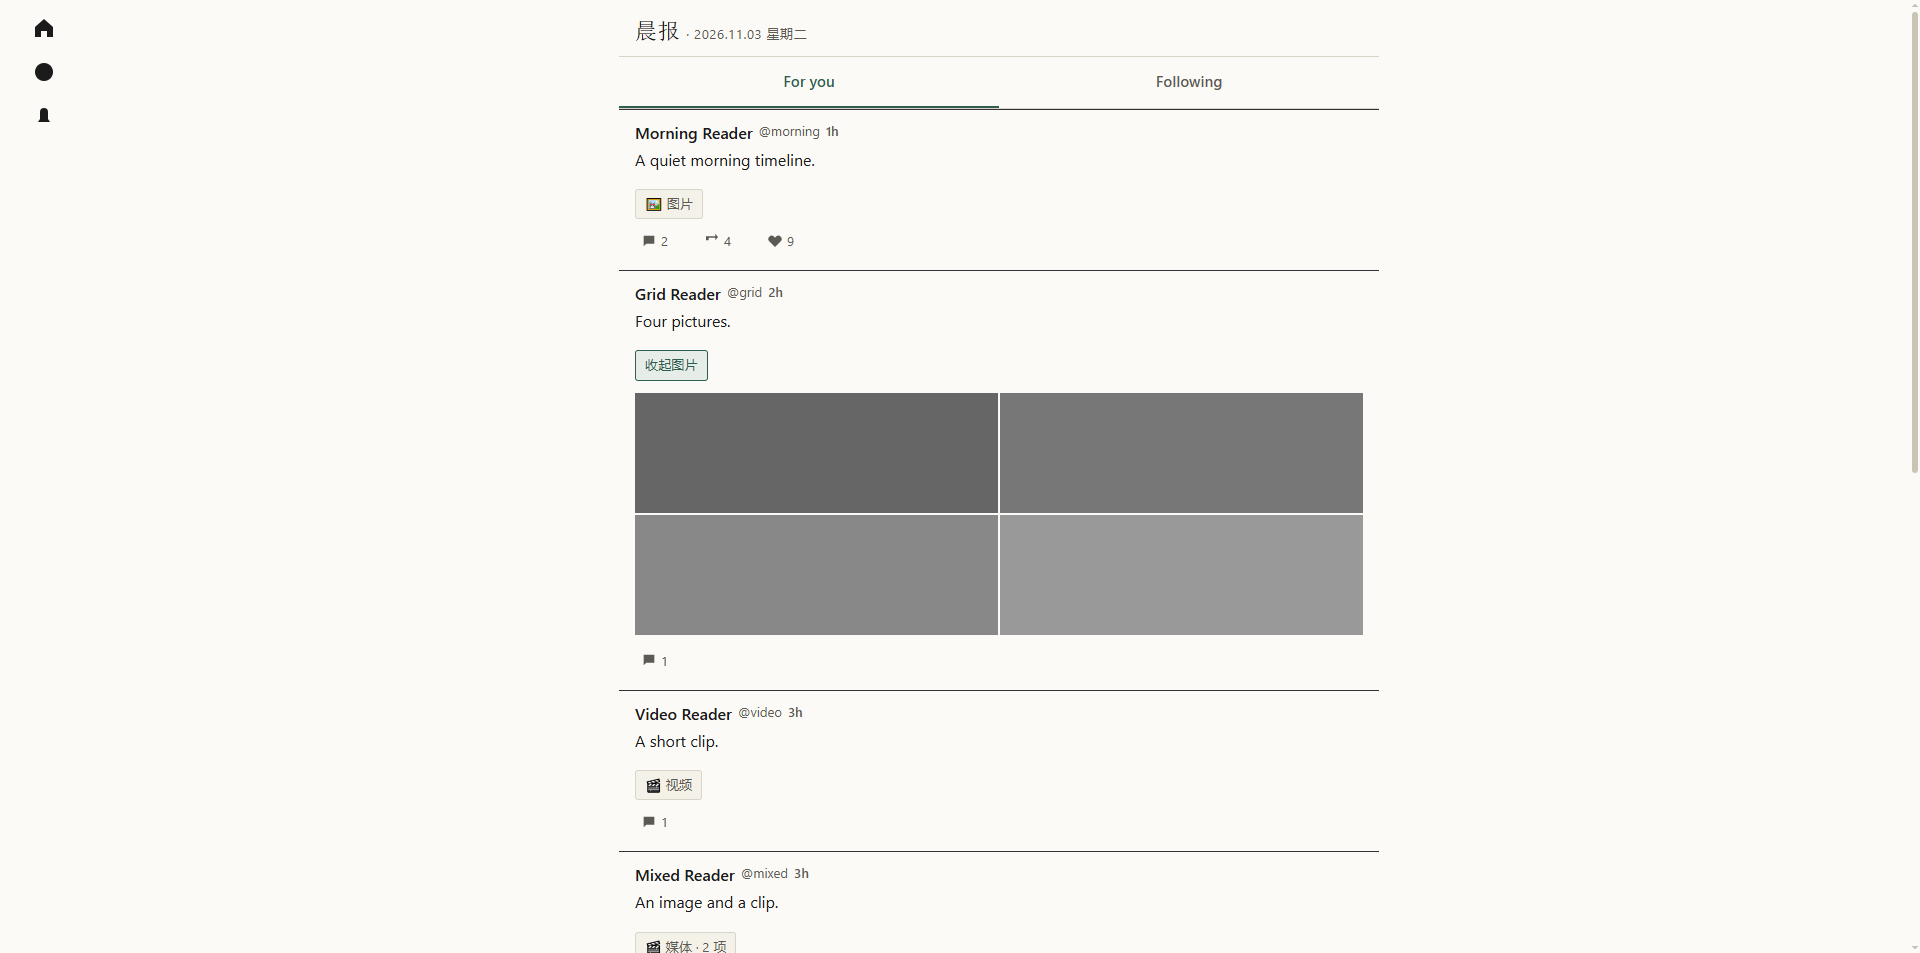
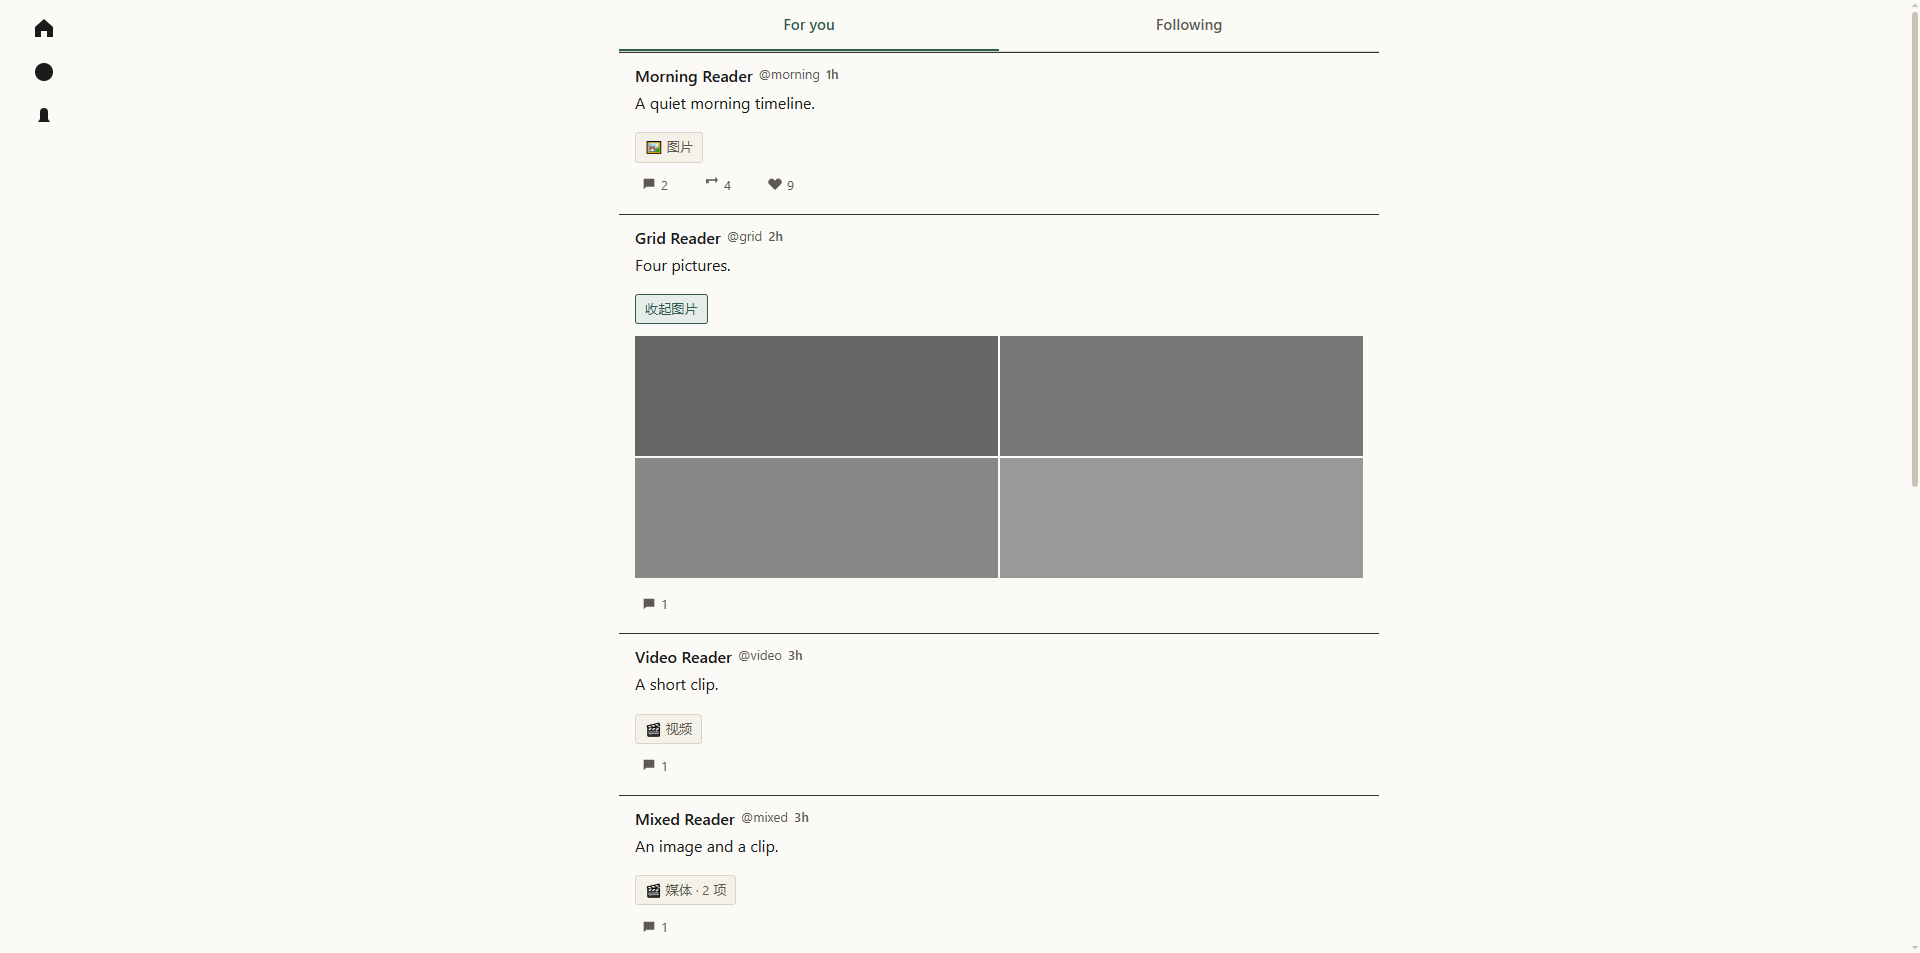
feat: rename to x-paper, format post times and refine notifications
- remove the date masthead and every 晨报 reference from the userscript and user docs
- rename the userscript, namespace, menu and console prefix to x-paper
- render post timestamps as HH:mm, 昨天·HH:mm or M月D日·HH:mm and sync aria-labels
- turn the new-posts pill and toast into compact paper surfaces

Changed region(s): [[0.3125, 0.0, 0.7188, 0.426], [0.3125, 0.6086, 0.7188, 1.0], [0.3125, 0.4565, 0.7188, 0.5477]]

diff --git a/x-morning-paper.user.js b/x-morning-paper.user.js
@@ -1,8 +1,8 @@
 // ==UserScript==
-// @name         X 晨报
-// @namespace    x-morning-paper
-// @version      0.2.0
-// @description  把 X 首页改成清爽晨报版面：图标轨、宽正文、日期刊头、媒体 emoji 入口
+// @name         x-paper
+// @namespace    x-paper
+// @version      0.3.0
+// @description  A quiet paper layout for X: icon rail, wide reading column, emoji media controls
 // @match        https://x.com/*
 // @run-at       document-start
 // @grant        GM_getValue
@@ -43,7 +43,6 @@
       --xmp-pine-soft: #E6ECE7;
       --xmp-like: #A8442E;
       --xmp-ui-font: -apple-system, BlinkMacSystemFont, "Segoe UI", "Microsoft YaHei", sans-serif;
-      --xmp-display-font: Georgia, "Times New Roman", "Songti SC", "SimSun", serif;
       background-color: var(--xmp-paper) !important;
       color-scheme: light !important;
       color: var(--xmp-ink) !important;
@@ -233,16 +232,18 @@
     }
 
     html[data-xmp-enabled="1"] [role="status"][data-keep-composer-open] button {
-      background-color: var(--xmp-pine) !important;
-      color: var(--xmp-paper) !important;
+      background-color: var(--xmp-paper-raised) !important;
+      color: var(--xmp-ink) !important;
+      border: 1px solid var(--xmp-hairline) !important;
+      box-shadow: 0 2px 8px rgba(27, 27, 27, 0.08);
       width: auto !important;
       min-width: 0 !important;
       justify-content: center !important;
     }
 
     html[data-xmp-enabled="1"] [role="status"][data-keep-composer-open] button * {
-      color: var(--xmp-paper) !important;
-      fill: var(--xmp-paper) !important;
+      color: var(--xmp-ink) !important;
+      fill: var(--xmp-ink) !important;
     }
 
     html[data-xmp-enabled="1"] [role="status"][data-keep-composer-open] button > div {
@@ -420,44 +421,18 @@
     }
 
     html[data-xmp-enabled="1"] [role="status"][data-keep-composer-open] button:hover {
-      background-color: var(--xmp-pine-deep) !important;
+      background-color: var(--xmp-pine-soft) !important;
+      border-color: var(--xmp-pine) !important;
+    }
+
+    html[data-xmp-enabled="1"] [role="status"][data-keep-composer-open] button:hover * {
+      color: var(--xmp-pine) !important;
+      fill: var(--xmp-pine) !important;
     }
 
     html[data-xmp-enabled="1"] :is(main, header[role="banner"]) :is(a, button, [role="button"], [role="tab"], [role="link"]):focus-visible {
       outline: 2px solid var(--xmp-pine) !important;
       outline-offset: 2px;
-    }
-
-    #xmp-date-masthead {
-      position: static !important;
-      display: flex !important;
-      align-items: baseline !important;
-      justify-content: flex-start !important;
-      gap: 6px !important;
-      width: 100% !important;
-      box-sizing: border-box !important;
-      padding: 18px 16px 10px !important;
-      border-bottom: 1px solid var(--xmp-hairline) !important;
-      background: var(--xmp-paper) !important;
-      color: var(--xmp-ink) !important;
-      font-family: var(--xmp-display-font) !important;
-      font-weight: 400 !important;
-      line-height: 1.25 !important;
-    }
-
-    #xmp-date-masthead .xmp-masthead-name {
-      font-family: var(--xmp-display-font) !important;
-      font-size: 22px !important;
-      letter-spacing: 0.03em;
-    }
-
-    #xmp-date-masthead .xmp-masthead-date {
-      font-family: var(--xmp-ui-font) !important;
-      font-size: 13px !important;
-      line-height: 1.4 !important;
-      letter-spacing: 0.05em;
-      color: var(--xmp-ink-secondary) !important;
-      font-variant-numeric: tabular-nums;
     }
 
     @media (prefers-reduced-motion: reduce) {
@@ -706,6 +681,7 @@
   let observer = null;
   let observedPrimary = null;
   let scanTimer = null;
+  let timestampTimer = null;
   let bootObserver = null;
   let bootTimer = null;
   let mediaBlockCounter = 0;
@@ -716,7 +692,7 @@
   function warnOnce(key, message) {
     if (warned.has(key)) return;
     warned.add(key);
-    console.warn(`[X 晨报] ${message}`);
+    console.warn(`[x-paper] ${message}`);
   }
 
   function readEnabled() {
@@ -739,8 +715,8 @@
 
   function registerMenu() {
     if (typeof GM_registerMenuCommand !== 'function') return;
-    GM_registerMenuCommand('关闭晨报', () => setEnabled(false));
-    GM_registerMenuCommand('开启晨报', () => setEnabled(true));
+    GM_registerMenuCommand('关闭 x-paper', () => setEnabled(false));
+    GM_registerMenuCommand('开启 x-paper', () => setEnabled(true));
   }
 
   function injectStyle(id, css) {
@@ -792,7 +768,6 @@
     enabled = false;
     stopObserver();
     cleanupAllMedia();
-    document.getElementById('xmp-date-masthead')?.remove();
     removeStyles();
     const root = document.documentElement;
     delete root.dataset.xmpEnabled;
@@ -812,7 +787,8 @@
       return;
     }
     checkSelectorHealth();
-    ensureMasthead();
+    formatTimestamps();
+    scheduleTimestampFormat();
     markTabbar();
     markComposer();
     if (route === 'home' && !degraded) {
@@ -869,7 +845,8 @@
       return;
     }
     checkSelectorHealth();
-    ensureMasthead();
+    formatTimestamps();
+    scheduleTimestampFormat();
     markTabbar();
     markComposer();
     if (route === 'home' && !degraded) {
@@ -880,50 +857,41 @@
     }
   }
 
-  function ensureMasthead() {
-    let masthead = document.getElementById('xmp-date-masthead');
-    if (!enabled || route !== 'home' || degraded || !widthQuery.matches) {
-      masthead?.remove();
-      return;
-    }
+  function formatPostTime(value) {
+    const date = new Date(value);
+    if (Number.isNaN(date.getTime())) return null;
+    const now = new Date();
+    const midnight = day => new Date(day.getFullYear(), day.getMonth(), day.getDate());
+    const days = Math.round((midnight(now) - midnight(date)) / 86400000);
+    const clock = `${String(date.getHours()).padStart(2, '0')}:${String(date.getMinutes()).padStart(2, '0')}`;
+    if (days === 0) return clock;
+    if (days === 1) return `昨天·${clock}`;
+    const month = date.getMonth() + 1;
+    const dateText = date.getFullYear() === now.getFullYear()
+      ? `${month}月${date.getDate()}日`
+      : `${date.getFullYear()}年${month}月${date.getDate()}日`;
+    return `${dateText}·${clock}`;
+  }
+
+  function formatTimestamps() {
+    if (!enabled) return;
     const primary = document.querySelector(PRIMARY);
-    if (!primary) {
-      masthead?.remove();
-      return;
-    }
-    if (!masthead) {
-      masthead = document.createElement('div');
-      masthead.id = 'xmp-date-masthead';
-      masthead.setAttribute('role', 'heading');
-      masthead.setAttribute('aria-level', '1');
-    }
-    const date = formatMastheadDate();
-    const text = `晨报 · ${date}`;
-    if (masthead.dataset.xmpMasthead !== text) {
-      const name = document.createElement('span');
-      name.className = 'xmp-masthead-name';
-      name.textContent = '晨报';
-      const dateline = document.createElement('span');
-      dateline.className = 'xmp-masthead-date';
-      dateline.textContent = `· ${date}`;
-      masthead.replaceChildren(name, dateline);
-      masthead.dataset.xmpMasthead = text;
-      masthead.setAttribute('aria-label', text);
-    }
-    if (masthead.parentElement !== primary || primary.firstElementChild !== masthead) {
-      primary.prepend(masthead);
+    if (!primary) return;
+    for (const element of primary.querySelectorAll('time[datetime]')) {
+      const text = formatPostTime(element.getAttribute('datetime'));
+      if (!text || element.textContent.trim() === text) continue;
+      element.textContent = text;
+      const link = element.closest('a');
+      if (link && link.hasAttribute('aria-label')) link.setAttribute('aria-label', text);
     }
   }
 
-  function formatMastheadDate() {
-    const parts = new Intl.DateTimeFormat('zh-CN', {
-      year: 'numeric',
-      month: '2-digit',
-      day: '2-digit',
-      weekday: 'long',
-    }).formatToParts(new Date());
-    const value = type => parts.find(part => part.type === type)?.value || '';
-    return `${value('year')}.${value('month')}.${value('day')} ${value('weekday')}`;
+  function scheduleTimestampFormat() {
+    if (timestampTimer) window.clearTimeout(timestampTimer);
+    timestampTimer = window.setTimeout(() => {
+      timestampTimer = null;
+      formatTimestamps();
+    }, 1200);
   }
 
   function markTabbar() {
@@ -1005,7 +973,8 @@
       bootTimer = null;
     }
     checkSelectorHealth();
-    ensureMasthead();
+    formatTimestamps();
+    scheduleTimestampFormat();
     markTabbar();
     markComposer();
     if (route === 'home' && !degraded) {
@@ -1084,7 +1053,6 @@
     warnOnce(`degraded-${reason}`, `选择器降级（${reason}）`);
     stopObserver();
     cleanupAllMedia();
-    document.getElementById('xmp-date-masthead')?.remove();
   }
 
   function clearDegraded() {
@@ -1139,7 +1107,7 @@
     if (!enabled || degraded || route !== 'home' || !widthQuery.matches) return;
     const primary = document.querySelector(PRIMARY);
     if (!primary) return;
-    ensureMasthead();
+    formatTimestamps();
     markTabbar();
     markComposer();
     const cells = [...primary.querySelectorAll(CELL)];
@@ -1349,7 +1317,6 @@
       stopObserver();
       cleanupAllMedia();
     }
-    ensureMasthead();
     if (widthQuery.matches && route === 'home' && !degraded) {
       startObserver();
       scanTimeline();

diff --git a/test/fixture.html b/test/fixture.html
@@ -2,7 +2,7 @@
 <html lang="zh-CN">
 <head>
 <meta charset="utf-8">
-<title>X 晨报 fixture</title>
+<title>x-paper fixture</title>
 <style>
   :root {
     --x-bg: #000;

diff --git a/README.md b/README.md
@@ -1,21 +1,24 @@
-# X 晨报
+# x-paper
 
-把 X 首页改成清爽晨报版面的 Tampermonkey userscript：88px 图标轨、无右栏、居中宽正文、
-日期刊头、轻量操作栏和媒体 emoji 入口。主题固定浅色纸感，帖子详情复用同一主题和外壳。
+把 X 首页改成安静纸面版面的 Tampermonkey userscript：88px 图标轨、无右栏、居中宽正文、
+轻量操作栏和媒体 emoji 入口；发帖时间显示为具体时刻。主题固定浅色纸感，帖子详情复用同一
+主题和外壳。
 
 ## 安装
 
 1. 在 Windows Chrome 中安装 Tampermonkey。
 2. 新建用户脚本，把 `x-morning-paper.user.js` 的内容粘贴进去并保存。
-3. 打开 `https://x.com/home`。Tampermonkey 菜单提供“关闭晨报”和“开启晨报”。
+3. 打开 `https://x.com/home`。Tampermonkey 菜单提供“关闭 x-paper”和“开启 x-paper”。
 
 脚本只申请 `GM_getValue`、`GM_setValue`、`GM_registerMenuCommand` 和 `GM_addStyle`；
 不发起网络请求，不读取账号数据，状态保存在本机。
 
 ## 行为
 
-- 视口 ≥1000px：左轨 88px、右栏隐藏、正文列 680/720/760px 居中、首页日期刊头。
+- 视口 ≥1000px：左轨 88px、右栏隐藏、正文列 680/720/760px 居中。
 - 视口 <1000px：只应用浅色主题，保留 X 原生布局和媒体行为。
+- 帖子时间按本地时间显示：当天显示 `HH:mm`，昨天显示 `昨天·HH:mm`，更早显示
+  `M月D日·HH:mm`（跨年时带年份）。
 - 首页顶层帖子的图片/视频默认折叠为 🖼/🎬 按钮，点击就地展开；多图保持原生网格；
   X 当前的多图滚动轮播（`ScrollSnap-List`）作为媒体块折叠。帖子有自有媒体时优先折叠自有
   媒体；只有引用帖媒体时也折叠引用帖内的图片和卡片媒体；帖子外层的链接卡片媒体保持原样。
@@ -24,9 +27,10 @@
   操作栏上方不显示分割线。
 - 头像和正文列两侧不显示框线；帖子之间使用浅纸色分隔线，详情页的线程连接竖线使用同一
   浅纸色；引用卡边框使用细线。
-- 新帖提示按内容宽度收紧；Toast 使用纸面浮起样式，不出现 X 蓝色/绿色大块。
+- 新帖提示按内容宽度收紧并使用纸面浮起样式；Toast 同样使用纸面浮起样式，不出现 X
+  蓝色/绿色大块。
 - 选择器缺失时降级为主题模式：primary 或版面锚点缺失时只应用主题；时间线暂时为空时保留
-  刊头和观察器；详情页不显示刊头和媒体按钮。
+  观察器；详情页不显示媒体按钮。
 - 观察器只观察 primary，150ms 防抖；不添加滚动监听。扫描不依赖 `requestAnimationFrame`，
   窗口不可见时仍会执行，但受浏览器后台节流影响。
 

diff --git a/docs/selectors.md b/docs/selectors.md
@@ -1,4 +1,4 @@
-# X 晨报选择器与降级参考
+# x-paper 选择器与降级参考
 
 本文件记录 `x-morning-paper.user.js` 依赖的现场锚点、运行状态属性和降级行为，供 X 改版时
 维护使用。精确选择器仍以现场 DOM 为准；脚本不依赖界面文字。
@@ -16,7 +16,16 @@
 | `data-xmp-tabbar` | 空 | 首页主内容容器内的 tab 栏容器；主题背景标记 |
 | `data-xmp-composer` | 空 | 首页主内容容器内的发帖框包装层；主题背景标记 |
 | `data-xmp-divider` | 空 | 首页发帖框后的 1–2px 分隔条；背景透明，由发帖框下边框提供线条 |
-| `id="xmp-date-masthead"` | 日期文本 | 首页唯一、非粘性日期刊头 |
+
+## 时间格式
+
+脚本读取 primary 内每个 `time[datetime]` 的 `datetime`，把可见文本重写为本地时间：
+
+- 当天：`HH:mm`
+- 昨天：`昨天·HH:mm`
+- 更早：`M月D日·HH:mm`；跨年时为 `YYYY年M月D日·HH:mm`
+
+`datetime` 无效时保持 X 原文本。X 重渲染后由首页扫描或路由回调重新格式化。
 
 ## 现场锚点
 
@@ -66,10 +75,10 @@
 
 | 缺失 / 条件 | 行为 |
 |-------------|------|
-| `primaryColumn` 缺失 | 设置 `data-xmp-degraded`，只应用主题；移除刊头和媒体标注 |
+| `primaryColumn` 缺失 | 设置 `data-xmp-degraded`，只应用主题；移除媒体标注 |
 | header/nav 或内层时间线容器缺失 | 同 primary 缺失，主题模式 |
-| 没有 `cellInnerDiv`（加载/空时间线） | 保留主题、版面、刊头；启动观察器等待单元格 |
-| 有 `cellInnerDiv` 但找不到公共容器 | 保留主题、版面和刊头；跳过媒体按钮标注；保留观察器 |
+| 没有 `cellInnerDiv`（加载/空时间线） | 保留主题、版面；启动观察器等待单元格 |
+| 有 `cellInnerDiv` 但找不到公共容器 | 保留主题、版面；跳过媒体按钮标注；保留观察器 |
 | 媒体块 / 公共祖先找不到 | 该帖子保持原媒体可见，不插入按钮 |
 | 存储不可用 | 默认启用；菜单关闭只移除当前页面样式/DOM，不重载；菜单可重新开启 |
 | 路由补丁异常 | 回退到 `popstate` 和初始路径判断 |
